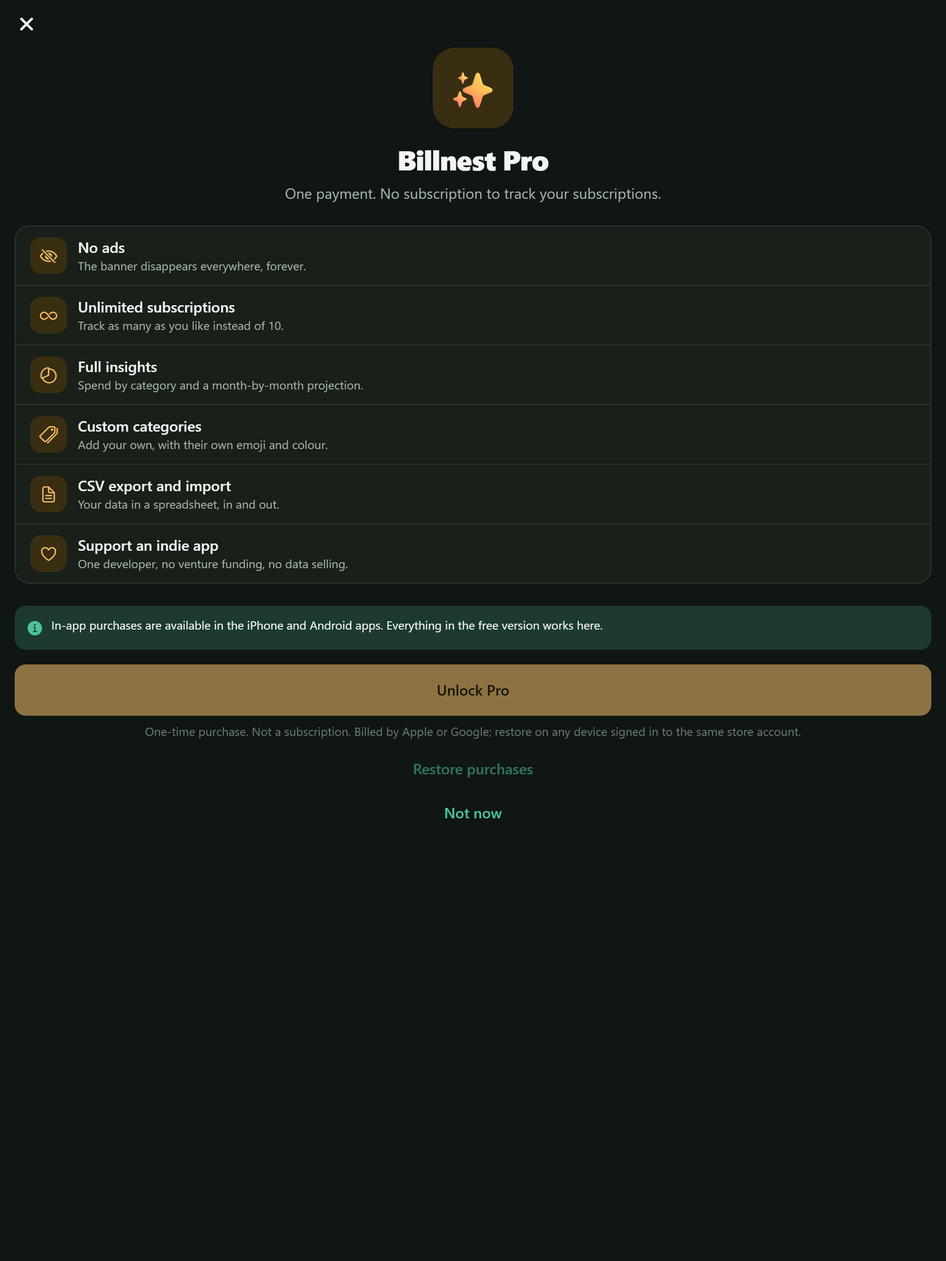
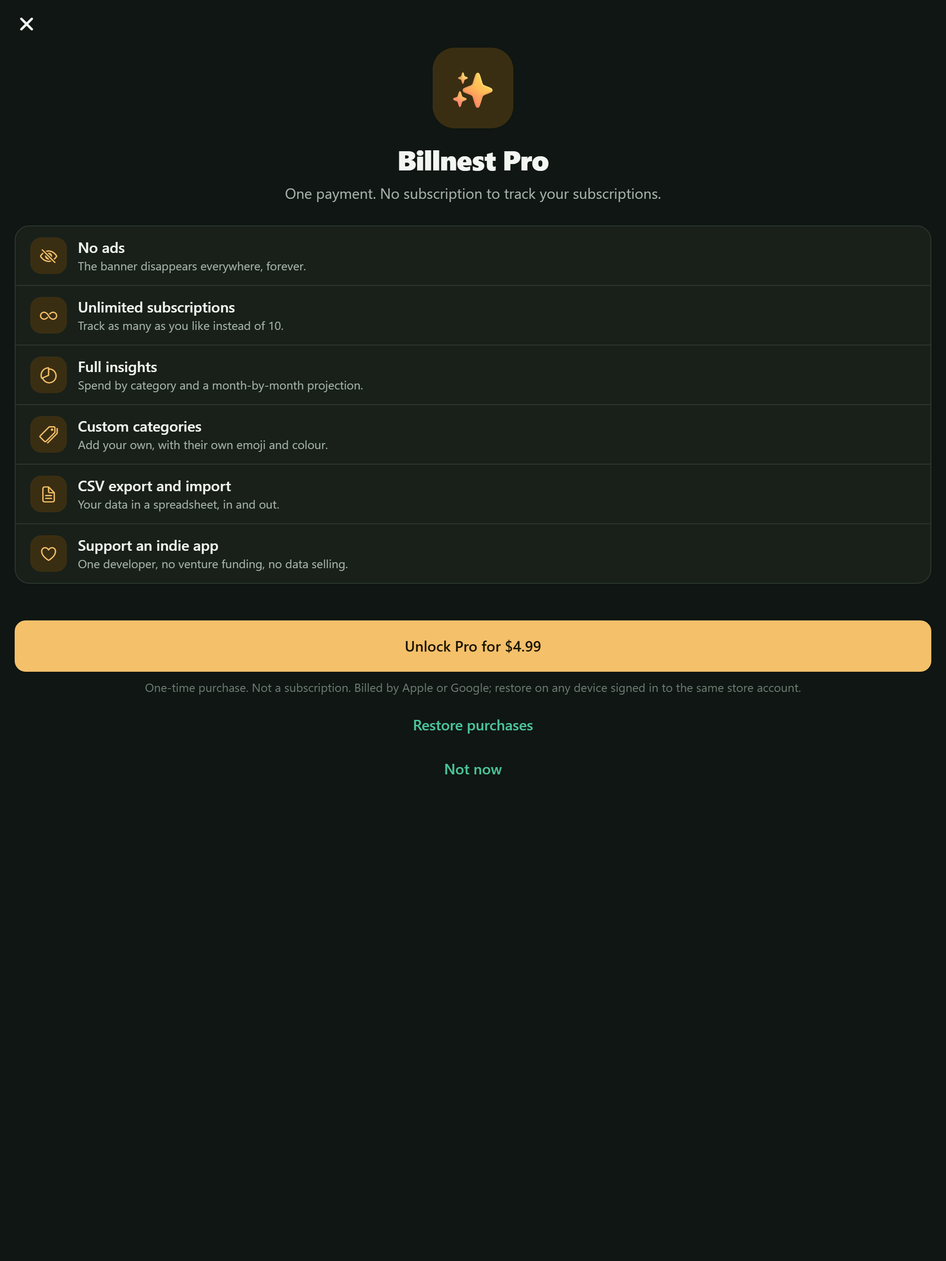
Billnest sweep: export filename, listing copy, price and dates, Pro screenshot in store-ready state, regenerated screenshots

Changed region(s): [[0.0, 0.4688, 0.9922, 0.6562]]

diff --git a/src/content/legal.generated.ts b/src/content/legal.generated.ts
@@ -8,12 +8,12 @@ export interface LegalDoc {
 export const LEGAL_DOCS: Record<'privacy' | 'terms', LegalDoc> = {
   "privacy": {
     "title": "Privacy Policy",
-    "updated": "22 October 2026",
-    "markdown": "# Billnest Privacy Policy\n\nLast updated: 22 October 2026\n\nBillnest is a subscription tracker built to keep your information on your own device. This policy explains what the app does and does not do with data.\n\n## The short version\n\n- Everything you enter into Billnest (subscription names, prices, dates, notes, categories, settings) is stored only on your device.\n- Billnest has no accounts, no sign-in, no cloud sync and no servers of its own. We cannot see your data.\n- The free version shows a small banner advert served by Google AdMob. Advertising is the only part of the app that involves a third party receiving device information, and it is removed entirely by the one-time Pro purchase.\n- Pro purchases are processed by Apple or Google and verified through RevenueCat. No payment card details ever reach Billnest.\n\n## Data you enter\n\nSubscription details, categories, notes and preferences are saved in the app's private storage on your device. They are never transmitted by Billnest. Deleting the app, or using \"Delete all data\" in Settings, removes them. If you use the CSV export, the exported file goes wherever you choose to share or save it, and that is under your control.\n\n## Reminders\n\nRenewal and trial reminders are local notifications scheduled on your device by the operating system. No notification content is sent to any server.\n\n## Advertising (free version only)\n\nThe free version displays banner adverts using the Google Mobile Ads SDK (AdMob). To serve and measure adverts, Google may collect information such as your device's advertising identifier, IP address, approximate location derived from it, device model and operating system, and interactions with adverts. How Google uses this information is described in Google's Privacy Policy at https://policies.google.com/privacy and in \"How Google uses information from sites or apps that use our services\" at https://policies.google.com/technologies/partner-sites.\n\n- In the European Economic Area, the United Kingdom and Switzerland, you are asked for consent through Google's consent form before personalised adverts are requested. You can change your choice at any time by reinstalling the app or through the system advertising settings.\n- On iOS, the App Tracking Transparency prompt lets you allow or refuse tracking. If you refuse, adverts are still shown but are not personalised using your identifier.\n- You can reset or limit your advertising identifier in your device settings at any time.\n\nPurchasing Billnest Pro removes the Mobile Ads SDK from use; no advert requests are made once Pro is active.\n\n## Purchases\n\nBillnest Pro is a one-time in-app purchase billed by the Apple App Store or Google Play. To unlock Pro and to restore it on another device, the app uses RevenueCat, which receives the store's purchase receipt and an anonymous, randomly generated app user identifier. RevenueCat does not receive your name, email address or any subscription data you entered. RevenueCat's privacy policy is at https://www.revenuecat.com/privacy.\n\n## Analytics and crash reporting\n\nBillnest does not include analytics or crash-reporting SDKs. The developer receives only the aggregated, anonymous statistics that Apple and Google provide to every app publisher.\n\n## Children\n\nBillnest is a general-audience personal finance utility and is not directed at children under 13. We do not knowingly collect personal information from children.\n\n## Your rights\n\nBecause your data stays on your device, you control it directly: view, edit, export or delete it in the app at any time. For questions about advertising data held by Google or purchase records held by Apple, Google or RevenueCat, please contact those companies directly using the links above. For anything about Billnest itself, contact the developer at tyjcraw@gmail.com.\n\n## Changes to this policy\n\nIf this policy changes, the updated version will be published at the same address and the \"Last updated\" date will change. Material changes will also be mentioned in the app's release notes.\n\n## Contact\n\nDeveloper email: tyjcraw@gmail.com\n"
+    "updated": "26 October 2026",
+    "markdown": "# Billnest Privacy Policy\n\nLast updated: 26 October 2026\n\nBillnest is a subscription tracker built to keep your information on your own device. This policy explains what the app does and does not do with data.\n\n## The short version\n\n- Everything you enter into Billnest (subscription names, prices, dates, notes, categories, settings) is stored only on your device.\n- Billnest has no accounts, no sign-in, no cloud sync and no servers of its own. We cannot see your data.\n- The free version shows a small banner advert served by Google AdMob. Advertising is the only part of the app that involves a third party receiving device information, and it is removed entirely by the one-time Pro purchase.\n- Pro purchases are processed by Apple or Google and verified through RevenueCat. No payment card details ever reach Billnest.\n\n## Data you enter\n\nSubscription details, categories, notes and preferences are saved in the app's private storage on your device. They are never transmitted by Billnest. Deleting the app, or using \"Delete all data\" in Settings, removes them. If you use the CSV export, the exported file goes wherever you choose to share or save it, and that is under your control.\n\n## Reminders\n\nRenewal and trial reminders are local notifications scheduled on your device by the operating system. No notification content is sent to any server.\n\n## Advertising (free version only)\n\nThe free version displays banner adverts using the Google Mobile Ads SDK (AdMob). To serve and measure adverts, Google may collect information such as your device's advertising identifier, IP address, approximate location derived from it, device model and operating system, and interactions with adverts. How Google uses this information is described in Google's Privacy Policy at https://policies.google.com/privacy and in \"How Google uses information from sites or apps that use our services\" at https://policies.google.com/technologies/partner-sites.\n\n- In the European Economic Area, the United Kingdom and Switzerland, you are asked for consent through Google's consent form before personalised adverts are requested. You can change your choice at any time by reinstalling the app or through the system advertising settings.\n- On iOS, the App Tracking Transparency prompt lets you allow or refuse tracking. If you refuse, adverts are still shown but are not personalised using your identifier.\n- You can reset or limit your advertising identifier in your device settings at any time.\n\nPurchasing Billnest Pro removes the Mobile Ads SDK from use; no advert requests are made once Pro is active.\n\n## Purchases\n\nBillnest Pro is a one-time in-app purchase billed by the Apple App Store or Google Play. To unlock Pro and to restore it on another device, the app uses RevenueCat, which receives the store's purchase receipt and an anonymous, randomly generated app user identifier. RevenueCat does not receive your name, email address or any subscription data you entered. RevenueCat's privacy policy is at https://www.revenuecat.com/privacy.\n\n## Analytics and crash reporting\n\nBillnest does not include analytics or crash-reporting SDKs. The developer receives only the aggregated, anonymous statistics that Apple and Google provide to every app publisher.\n\n## Children\n\nBillnest is a general-audience personal finance utility and is not directed at children under 13. We do not knowingly collect personal information from children.\n\n## Your rights\n\nBecause your data stays on your device, you control it directly: view, edit, export or delete it in the app at any time. For questions about advertising data held by Google or purchase records held by Apple, Google or RevenueCat, please contact those companies directly using the links above. For anything about Billnest itself, contact the developer at tyjcraw@gmail.com.\n\n## Changes to this policy\n\nIf this policy changes, the updated version will be published at the same address and the \"Last updated\" date will change. Material changes will also be mentioned in the app's release notes.\n\n## Contact\n\nDeveloper email: tyjcraw@gmail.com\n"
   },
   "terms": {
     "title": "Terms of Use",
-    "updated": "22 October 2026",
-    "markdown": "# Billnest Terms of Use\n\nLast updated: 22 October 2026\n\nThese terms apply to the Billnest mobile application (\"the app\"). By installing or using the app you agree to them. If you do not agree, please do not use the app.\n\n## What Billnest is\n\nBillnest is a personal tool for recording recurring payments and estimating what they cost. It works from the information you type in. It does not connect to your bank, does not verify charges and does not know whether a service actually billed you.\n\n## Licence\n\nYou are granted a personal, non-transferable, non-exclusive licence to use the app on devices you own or control, subject to the rules of the app store you downloaded it from. You may not copy, modify, reverse engineer, resell or redistribute the app except where the law expressly allows it.\n\n## Billnest Pro\n\nBillnest Pro is a one-time in-app purchase that removes adverts and unlocks additional features. It is not a subscription and there is no recurring charge. The purchase is processed and billed by Apple or Google under their terms, and refunds are handled by them according to their policies. You can restore Pro on any device signed in to the same store account using \"Restore purchases\" in the app.\n\n## Accuracy and estimates\n\nTotals, projections and reminders are calculated from the dates, prices and billing cycles you enter. Monthly and yearly figures for non-monthly cycles are estimates. Billnest is not financial, tax or legal advice and is no substitute for checking your statements. You are responsible for cancelling services you no longer want with the providers themselves; a reminder from Billnest does not cancel anything.\n\n## Reminders\n\nReminders rely on your device's notification system and settings. Delivery can be delayed or prevented by low-power modes, system restrictions, device restarts or permissions you have withheld. Do not rely on Billnest as your only safeguard against unwanted charges.\n\n## Your data\n\nYour data is stored on your device and is your responsibility to back up (for example with the CSV export in Pro). Uninstalling the app or using \"Delete all data\" removes it permanently.\n\n## Acceptable use\n\nPlease do not use the app in any way that is unlawful, that infringes the rights of others, or that interferes with the app or the services it relies on.\n\n## Disclaimer of warranties\n\nThe app is provided \"as is\" and \"as available\", without warranties of any kind, express or implied, including fitness for a particular purpose and non-infringement, to the fullest extent permitted by law.\n\n## Limitation of liability\n\nTo the fullest extent permitted by law, the developer is not liable for any indirect, incidental, special or consequential loss, including charges you incur from services you did not cancel, arising from your use of or inability to use the app. Where liability cannot be excluded, it is limited to the amount you paid for Billnest Pro, if any.\n\n## Changes\n\nThese terms and the app may change over time. Continued use after a change means you accept the updated terms. The current version is always published at the same address and the \"Last updated\" date is shown above.\n\n## Governing law\n\nThese terms are governed by the laws of the country in which the developer resides, without regard to conflict-of-law rules, except where the consumer protection law of your own country of residence gives you rights that cannot be waived.\n\n## Contact\n\nDeveloper email: tyjcraw@gmail.com\n"
+    "updated": "26 October 2026",
+    "markdown": "# Billnest Terms of Use\n\nLast updated: 26 October 2026\n\nThese terms apply to the Billnest mobile application (\"the app\"). By installing or using the app you agree to them. If you do not agree, please do not use the app.\n\n## What Billnest is\n\nBillnest is a personal tool for recording recurring payments and estimating what they cost. It works from the information you type in. It does not connect to your bank, does not verify charges and does not know whether a service actually billed you.\n\n## Licence\n\nYou are granted a personal, non-transferable, non-exclusive licence to use the app on devices you own or control, subject to the rules of the app store you downloaded it from. You may not copy, modify, reverse engineer, resell or redistribute the app except where the law expressly allows it.\n\n## Billnest Pro\n\nBillnest Pro is a one-time in-app purchase that removes adverts and unlocks additional features. It is not a subscription and there is no recurring charge. The purchase is processed and billed by Apple or Google under their terms, and refunds are handled by them according to their policies. You can restore Pro on any device signed in to the same store account using \"Restore purchases\" in the app.\n\n## Accuracy and estimates\n\nTotals, projections and reminders are calculated from the dates, prices and billing cycles you enter. Monthly and yearly figures for non-monthly cycles are estimates. Billnest is not financial, tax or legal advice and is no substitute for checking your statements. You are responsible for cancelling services you no longer want with the providers themselves; a reminder from Billnest does not cancel anything.\n\n## Reminders\n\nReminders rely on your device's notification system and settings. Delivery can be delayed or prevented by low-power modes, system restrictions, device restarts or permissions you have withheld. Do not rely on Billnest as your only safeguard against unwanted charges.\n\n## Your data\n\nYour data is stored on your device and is your responsibility to back up (for example with the CSV export in Pro). Uninstalling the app or using \"Delete all data\" removes it permanently.\n\n## Acceptable use\n\nPlease do not use the app in any way that is unlawful, that infringes the rights of others, or that interferes with the app or the services it relies on.\n\n## Disclaimer of warranties\n\nThe app is provided \"as is\" and \"as available\", without warranties of any kind, express or implied, including fitness for a particular purpose and non-infringement, to the fullest extent permitted by law.\n\n## Limitation of liability\n\nTo the fullest extent permitted by law, the developer is not liable for any indirect, incidental, special or consequential loss, including charges you incur from services you did not cancel, arising from your use of or inability to use the app. Where liability cannot be excluded, it is limited to the amount you paid for Billnest Pro, if any.\n\n## Changes\n\nThese terms and the app may change over time. Continued use after a change means you accept the updated terms. The current version is always published at the same address and the \"Last updated\" date is shown above.\n\n## Governing law\n\nThese terms are governed by the laws of the country in which the developer resides, without regard to conflict-of-law rules, except where the consumer protection law of your own country of residence gives you rights that cannot be waived.\n\n## Contact\n\nDeveloper email: tyjcraw@gmail.com\n"
   }
 };

diff --git a/src/services/purchases.web.ts b/src/services/purchases.web.ts
@@ -11,22 +11,38 @@ export interface ProOffer {
 export type PurchaseOutcome = 'purchased' | 'cancelled' | 'failed';
 export type RestoreOutcome = 'restored' | 'none' | 'failed';
 
-const status = createStatusStore<StoreStatus>('unavailable');
+/**
+ * Store screenshots are rendered from the web build. The screenshot script sets this
+ * global (it is never set in the shipped apps or the normal web preview) so the Pro
+ * screen is captured in the same "ready to buy" state an iPhone user sees, showing the
+ * real App Store price, instead of the web-only "store unavailable" notice.
+ */
+interface StorePreview {
+  priceString: string;
+}
+
+function storePreview(): StorePreview | null {
+  const value = (globalThis as { __BILLNEST_STORE_PREVIEW__?: StorePreview }).__BILLNEST_STORE_PREVIEW__;
+  return value && typeof value.priceString === 'string' ? value : null;
+}
+
+const status = createStatusStore<StoreStatus>(storePreview() ? 'ready' : 'unavailable');
 export const usePurchasesStatus = status.use;
 export const getPurchasesStatus = status.get;
 
 // In-app purchases only exist in the native store builds. The web preview shows
 // the Pro screen in its "store unavailable" state.
 export async function configurePurchases(_onProChange: (isPro: boolean) => void): Promise<void> {
-  status.set('unavailable');
+  status.set(storePreview() ? 'ready' : 'unavailable');
 }
 
 export async function fetchProOffer(): Promise<ProOffer | null> {
-  return null;
+  const preview = storePreview();
+  return preview ? { priceString: preview.priceString, productId: 'subtally_pro_lifetime', title: 'Billnest Pro' } : null;
 }
 
 export async function purchasePro(): Promise<PurchaseOutcome> {
-  return 'failed';
+  return storePreview() ? 'cancelled' : 'failed';
 }
 
 export async function restorePro(): Promise<RestoreOutcome> {

diff --git a/docs/privacy.html b/docs/privacy.html
@@ -22,7 +22,7 @@
 <main>
 <article>
 <h1>Billnest Privacy Policy</h1>
-<p>Last updated: 22 October 2026</p>
+<p>Last updated: 26 October 2026</p>
 <p>Billnest is a subscription tracker built to keep your information on your own device. This policy explains what the app does and does not do with data.</p>
 <h2>The short version</h2>
 <ul><li>Everything you enter into Billnest (subscription names, prices, dates, notes, categories, settings) is stored only on your device.</li><li>Billnest has no accounts, no sign-in, no cloud sync and no servers of its own. We cannot see your data.</li><li>The free version shows a small banner advert served by Google AdMob. Advertising is the only part of the app that involves a third party receiving device information, and it is removed entirely by the one-time Pro purchase.</li><li>Pro purchases are processed by Apple or Google and verified through RevenueCat. No payment card details ever reach Billnest.</li></ul>

diff --git a/docs/terms.html b/docs/terms.html
@@ -22,7 +22,7 @@
 <main>
 <article>
 <h1>Billnest Terms of Use</h1>
-<p>Last updated: 22 October 2026</p>
+<p>Last updated: 26 October 2026</p>
 <p>These terms apply to the Billnest mobile application ("the app"). By installing or using the app you agree to them. If you do not agree, please do not use the app.</p>
 <h2>What Billnest is</h2>
 <p>Billnest is a personal tool for recording recurring payments and estimating what they cost. It works from the information you type in. It does not connect to your bank, does not verify charges and does not know whether a service actually billed you.</p>

diff --git a/src/services/exportImport.native.ts b/src/services/exportImport.native.ts
@@ -10,7 +10,7 @@ export type PickOutcome = { ok: true; text: string; fileName: string } | { ok: f
 /** Writes the CSV to the cache directory and opens the system share sheet. */
 export async function exportCSVFile(csv: string, now = new Date()): Promise<ExportOutcome> {
   try {
-    const file = new File(Paths.cache, `subtally-export-${toISODate(now)}.csv`);
+    const file = new File(Paths.cache, `billnest-export-${toISODate(now)}.csv`);
     if (file.exists) file.delete();
     file.create();
     await file.write(csv);

diff --git a/src/services/exportImport.web.ts b/src/services/exportImport.web.ts
@@ -12,7 +12,7 @@ export async function exportCSVFile(csv: string, now = new Date()): Promise<Expo
     const url = URL.createObjectURL(blob);
     const a = document.createElement('a');
     a.href = url;
-    a.download = `subtally-export-${toISODate(now)}.csv`;
+    a.download = `billnest-export-${toISODate(now)}.csv`;
     document.body.appendChild(a);
     a.click();
     a.remove();

diff --git a/STORE_LISTING.md b/STORE_LISTING.md
@@ -45,7 +45,7 @@ renewal,reminder,recurring,bills,budget,trial,expenses,manager,spending,money,ca
 ```
 Billnest is the simple way to see every subscription you pay for, what they really cost per month and per year, and when each one renews next. It works entirely on your phone: no account, no bank connection, no cloud.
 
-WHY PEOPLE SWITCH TO SUBTALLY
+WHY PEOPLE SWITCH TO BILLNEST
 • It never asks for your bank login. You type in what you pay and Billnest does the maths.
 • Pro is a one-time purchase. A subscription tracker should not be another subscription.
 • Works offline, anywhere. Your data stays on your device unless you export it.
@@ -61,7 +61,7 @@ WHAT YOU GET
 • Light and dark mode.
 • Any currency. Subscriptions in other currencies are shown separately; Billnest never guesses exchange rates.
 
-SUBTALLY PRO (ONE-TIME PURCHASE)
+BILLNEST PRO (ONE-TIME PURCHASE)
 • No ads.
 • Unlimited active subscriptions (free tracks up to 10).
 • Spend by category and a 12-month projection of what will leave your account.
@@ -101,7 +101,7 @@ Not collected: contact info, financial info (the app never sees card or bank dat
 | Type | Non-Consumable |
 | Reference name | Billnest Pro |
 | Product ID | `subtally_pro_lifetime` |
-| Price tier | Tier matching about USD 6.99 (your call; nothing in the app assumes a price) |
+| Price | USD 4.99 (set in App Store Connect; Apple sets the other countries automatically) |
 | Display name | Billnest Pro |
 | Description (45) | Remove ads, unlimited subscriptions, export |
 | Review notes | One-time unlock. Open Settings → "See Pro" → "Unlock Pro" with a sandbox account. After purchase the banner disappears, the Insights tab shows the category and timeline charts, and Settings → Export/Import/Manage categories open instead of showing the Pro screen. |
@@ -190,7 +190,7 @@ Generated by `npm run screenshots` from the web build at exact store sizes into 
 
 | # | File | Screen | Suggested caption (overlay or first line of listing) |
 |---|------|--------|------------------------------------------------------|
-| 1 | 01-subscriptions | Subscriptions list with totals | "Every subscription, one tally" |
+| 1 | 01-subscriptions | Subscriptions list with totals | "Every subscription, one nest" |
 | 2 | 02-upcoming | Upcoming renewals, 30-day window | "Know what's due before it hits your card" |
 | 3 | 03-insights | Insights with category and timeline charts (Pro) | "See where the money goes" |
 | 4 | 04-detail | Subscription detail with trial ending | "Free-trial reminders before they turn into charges" |

diff --git a/HANDOFF.md b/HANDOFF.md
@@ -77,7 +77,7 @@ The app expects exactly these identifiers:
 | Product identifier (both stores) | `subtally_pro_lifetime` |
 | Offering | the **current** offering, containing a **Lifetime** package with the product above |
 
-1. **App Store Connect**: your app → **Monetization** → **In-App Purchases** → **+** → type **Non-Consumable**, reference name `Billnest Pro`, product ID `subtally_pro_lifetime`. Pick a price (about USD 6.99 is in line with the market; nothing in the app assumes a price). Add the English display name "Billnest Pro" and description "Remove ads, unlimited subscriptions, export". Upload any screenshot of the Pro screen for review and add the review note from `STORE_LISTING.md`. Docs: https://developer.apple.com/help/app-store-connect/manage-in-app-purchases/create-in-app-purchases
+1. **App Store Connect**: your app → **Monetization** → **In-App Purchases** → **+** → type **Non-Consumable**, reference name `Billnest Pro`, product ID `subtally_pro_lifetime`. Price: USD 4.99 (already set). Add the English display name "Billnest Pro" and description "Remove ads, unlimited subscriptions, export". Upload any screenshot of the Pro screen for review and add the review note from `STORE_LISTING.md`. Docs: https://developer.apple.com/help/app-store-connect/manage-in-app-purchases/create-in-app-purchases
 2. **Google Play Console**: your app → **Monetize** → **Products** → **In-app products** → **Create product** → product ID `subtally_pro_lifetime`, name `Billnest Pro`, description "Remove ads, unlimited subscriptions, export", set a price → Save → **Activate**. (Play requires one build to be uploaded first, see step 9; come back and create the product after that if the page refuses.)
 3. **RevenueCat**: sign up at https://app.revenuecat.com/signup → create project `Billnest`.
    - **Apps & providers** → add **App Store** app: bundle ID `com.tyjcraw.subtally`, then follow the on-screen link to add an App Store Connect **In-App Purchase Key** (docs: https://www.revenuecat.com/docs/service-credentials/itunesconnect-app-specific-shared-secret/in-app-purchase-key-configuration).

diff --git a/START_HERE.md b/START_HERE.md
@@ -109,7 +109,7 @@ The app sells one thing: a one-time "Billnest Pro" unlock. It must be created in
 **6a. Create the product at Apple**
 1. App Store Connect → your app → left menu **Monetization** → **In-App Purchases** → **+**.
 2. Type: **Non-Consumable**. Reference Name: `Billnest Pro`. Product ID: `subtally_pro_lifetime`. Click **Create**.
-3. Set a price (around USD 6.99 is normal for this kind of app). Under **App Store Localization** add English: Display Name `Billnest Pro`, Description `Remove ads, unlimited subscriptions, export`.
+3. Price: USD 4.99 (already set; Apple fills in other countries). Under **App Store Localization** add English: Display Name `Billnest Pro`, Description `Remove ads, unlimited subscriptions, export`.
 4. Under **Review Information** upload any screenshot from `store\screenshots\iphone-6.9\07-pro.png` and paste this note: "One-time unlock. Open Settings, tap See Pro, tap Unlock Pro with a sandbox account. After purchase the banner disappears and Insights shows the category and timeline charts." Click **Save**.
 
 **6b. Create the product at Google**

diff --git a/legal/terms.md b/legal/terms.md
@@ -1,6 +1,6 @@
 # Billnest Terms of Use
 
-Last updated: 22 October 2026
+Last updated: 26 October 2026
 
 These terms apply to the Billnest mobile application ("the app"). By installing or using the app you agree to them. If you do not agree, please do not use the app.
 

diff --git a/legal/privacy.md b/legal/privacy.md
@@ -1,6 +1,6 @@
 # Billnest Privacy Policy
 
-Last updated: 22 October 2026
+Last updated: 26 October 2026
 
 Billnest is a subscription tracker built to keep your information on your own device. This policy explains what the app does and does not do with data.
 
